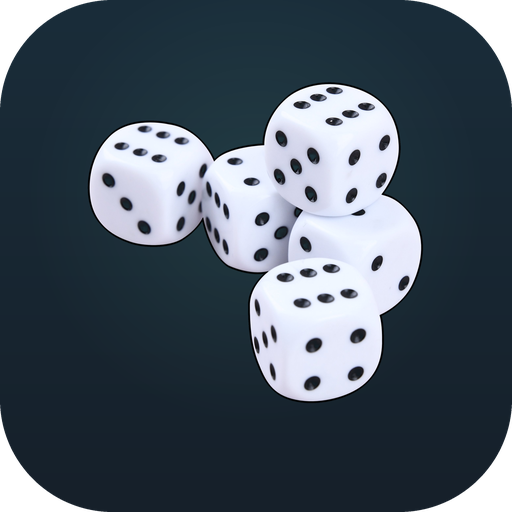
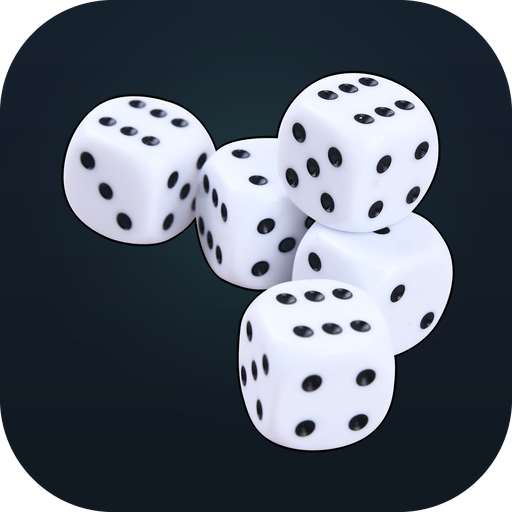
Add files via upload

Changed region(s): [[0.0938, 0.125, 0.9062, 0.9062], [0.7188, 0.5, 0.75, 0.5312]]

diff --git a/index.html b/index.html
@@ -4,7 +4,9 @@
 <meta charset="UTF-8">
 <meta name="viewport" content="width=device-width, initial-scale=1.0, maximum-scale=1.0, user-scalable=no">
 <meta name="theme-color" content="#f4f7f4">
-<link rel="manifest" href="./manifest.json">
+<link rel="preconnect" href="https://fonts.googleapis.com">
+<link rel="preconnect" href="https://fonts.gstatic.com" crossorigin>
+<link href="https://fonts.googleapis.com/css2?family=Playfair+Display:ital,wght@1,400;1,700&display=swap" rel="stylesheet">
 <link rel="icon" type="image/png" sizes="32x32" href="./icon-32.png">
 <link rel="apple-touch-icon" sizes="180x180" href="./icon-180.png">
 <meta name="apple-mobile-web-app-capable" content="yes">
@@ -1033,8 +1035,8 @@
     <div style="font-size: clamp(52px, 16vw, 80px); letter-spacing: 10px; line-height:1; color:#fff; font-weight:900;">
       YAM<span style="color:#5aa897;">B</span>
     </div>
-    <div style="font-family: Georgia, 'Times New Roman', serif; font-style: italic; font-size: clamp(12px, 3.4vw, 15px); color:#7a8f8a; margin-top: 10px; letter-spacing: 0.5px; font-weight: 400;">
-      crafted by <span style="color:#e8927c; font-weight:700; font-style:italic; font-family: Georgia, 'Times New Roman', serif;">Danijel.AI</span>
+    <div style="font-family:'Playfair Display',Georgia,serif; font-style:italic; font-size:clamp(13px,3.6vw,16px); color:#7a8f8a; margin-top:10px; letter-spacing:0.3px; font-weight:400;">
+      crafted by <span style="color:#e8927c; font-weight:700; font-style:italic;">Danijel.AI</span>
     </div>
   </div>
 
@@ -1047,6 +1049,10 @@
   @keyframes blink {
     0%, 100% { opacity: 0.4; }
     50% { opacity: 1; }
+  }
+  @keyframes slideUp {
+    from { transform: translateY(100%); }
+    to   { transform: translateY(0); }
   }
   #splash.fade-out {
     opacity: 0;
@@ -1247,6 +1253,28 @@
     <div class="scoreboard-final" id="finalBoard"></div>
     <button class="btn btn-roll" id="playAgainBtn" style="width:100%;">Nova igra</button>
   </div>
+</div>
+
+<div id="updateBanner" style="
+  display:none; position:fixed; bottom:0; left:0; right:0; z-index:8888;
+  background:var(--accent); color:#fff;
+  padding:14px 16px; text-align:center;
+  font-family:'JetBrains Mono',monospace; font-size:13px;
+  box-shadow:0 -4px 20px rgba(0,0,0,0.2);
+  animation: slideUp .3s ease;
+">
+  🆕 Nova verzija je dostupna!
+  <button onclick="location.reload()" style="
+    margin-left:12px; background:#fff; color:var(--accent);
+    border:none; border-radius:6px; padding:6px 14px;
+    font-weight:700; font-size:12px; cursor:pointer;
+    font-family:'JetBrains Mono',monospace;
+  ">Osvježi</button>
+  <button onclick="document.getElementById('updateBanner').style.display='none'" style="
+    margin-left:6px; background:transparent; color:rgba(255,255,255,0.7);
+    border:1px solid rgba(255,255,255,0.4); border-radius:6px; padding:6px 10px;
+    font-size:12px; cursor:pointer; font-family:'JetBrains Mono',monospace;
+  ">✕</button>
 </div>
 
 <div class="toast" id="toast"></div>
@@ -1674,25 +1702,32 @@ function renderColumnPicker() {
 // Render the install QR (encodes this page's URL).
 let qrRendered = false;
 function renderInstallQR() {
-  if (qrRendered) return;
   const box = document.getElementById('qrBox');
-  if (!box || typeof qrcode === 'undefined') return;
+  if (!box) return;
+  if (qrRendered) return;
+  if (typeof qrcode === 'undefined') { box.textContent = 'QR nije dostupan'; return; }
   try {
-    const url = window.location.href.split('#')[0];
-    const qr = qrcode(0, 'M');
-    qr.addData(url);
+    const url = 'https://danijelstzg.github.io/Yamb/';
+    const qr = qrcode(0, 'L');
+    qr.addData(url, 'Byte');
     qr.make();
-    box.innerHTML = qr.createSvgTag({ cellSize: 4, margin: 0, scalable: true });
-    const svg = box.querySelector('svg');
-    if (svg) { svg.style.width = '160px'; svg.style.height = '160px'; svg.style.display = 'block'; }
+    // Use object form so SVG has no fixed px dimensions — only viewBox (scalable)
+    const svg = qr.createSvgTag({ cellSize: 4, margin: 8, scalable: true });
+    box.innerHTML = svg;
+    const svgEl = box.querySelector('svg');
+    if (svgEl) {
+      svgEl.removeAttribute('width');
+      svgEl.removeAttribute('height');
+      svgEl.style.cssText = 'width:180px;height:180px;display:block;';
+    }
     qrRendered = true;
   } catch (e) {
-    const box = document.getElementById('qrBox');
-    if (box) box.textContent = 'QR nije dostupan';
+    box.textContent = 'QR greška: ' + e;
   }
 }
 
 document.getElementById('qrInstallBtn').onclick = () => {
+  renderInstallQR();
   document.getElementById('qrModal').classList.add('active');
 };
 document.getElementById('closeQrBtn').onclick = () => document.getElementById('qrModal').classList.remove('active');
@@ -1990,7 +2025,7 @@ function printBlankSheet() {
   const printRows = [
     { l:'1', s:'top' }, { l:'2', s:'top' }, { l:'3', s:'top' }, { l:'4', s:'top' },
     { l:'5', s:'top' }, { l:'6', s:'top' },
-    { l:'Σ gore', s:'sum', ro:true },
+    { l:'Međuzbroj', s:'sum', ro:true },
     { l:'Max', s:'mid', sep:true }, { l:'Min', s:'mid' },
     { l:'Razlika', d:'(Max − Min) × br. jedinica', s:'sum', ro:true },
     { l:'2 para', d:'+10', s:'bot', sep:true },
@@ -1998,7 +2033,7 @@ function printBlankSheet() {
     { l:'Full', d:'+30', s:'bot' },
     { l:'Poker', d:'+40', s:'bot' },
     { l:'Yamb', d:'+50', s:'bot' },
-    { l:'Σ dolje', s:'sum', ro:true },
+    { l:'Međuzbroj', s:'sum', ro:true },
     { l:'UKUPNO', s:'total', ro:true },
   ];
 
@@ -2014,11 +2049,14 @@ function printBlankSheet() {
       if (r.sep) cls.push('sep');
       const trcls = cls.length ? ` class="${cls.join(' ')}"` : '';
       const desc = r.d ? `<span class="d">${r.d}</span>` : '';
+      // Insert spacer row before UKUPNO
+      if (r.s === 'total') h += `<tr class="spacer"><td colspan="${nCols + 1}"></td></tr>`;
       h += `<tr${trcls}><td class="rl">${r.l}${desc}</td>`;
       colDefs.forEach(() => h += (r.ro ? '<td class="ro"></td>' : '<td></td>'));
       h += '</tr>';
     });
-    // Grand total across all columns
+    // Spacer then grand total
+    h += `<tr class="spacer"><td colspan="${nCols + 1}"></td></tr>`;
     h += `<tr class="grand"><td class="rl">SVEUKUPNO</td><td class="gtotal" colspan="${nCols}"></td></tr>`;
     h += '</tbody></table>';
     return h;
@@ -2034,7 +2072,8 @@ function printBlankSheet() {
     * { box-sizing: border-box; }
     body { font-family: Arial, Helvetica, sans-serif; margin: 0; color: #000; }
     h1 { text-align: center; font-size: 16px; margin: 0 0 4mm; letter-spacing: 2px; }
-    .sheets { display: flex; gap: 5mm; justify-content: center; align-items: flex-start; flex-wrap: wrap; }
+    .sheets { display: flex; gap: 0; justify-content: space-around; align-items: flex-start; width: 281mm; box-sizing: border-box; }
+    .sheet-wrap { flex: 0 0 33.33%; display: flex; justify-content: center; align-items: flex-start; }
     .ps { border-collapse: collapse; width: ${tableW}mm; table-layout: fixed; }
     .ps col.cl { width: ${labelW}mm; }
     .ps col.cv { width: ${valW}mm; }
@@ -2048,13 +2087,14 @@ function printBlankSheet() {
     .ps tr.grand .gtotal { background: #fff; }
     .ps td.ro { background: #ededed; }
     .ps tr.sep td { border-top: 2px solid #000; }
+    .ps tr.spacer td { height: 3mm; border: none; background: transparent; padding: 0; }
   `;
 
   const doc = `<!DOCTYPE html><html lang="hr"><head><meta charset="UTF-8">
     <meta name="viewport" content="width=device-width, initial-scale=1">
     <title>Yamb — prazan listić</title><style>${css}</style></head><body>
     <h1>YAMB</h1>
-    <div class="sheets">${buildTable()}${buildTable()}${buildTable()}</div>
+    <div class="sheets">${['','',''].map(()=>`<div class="sheet-wrap">${buildTable()}</div>`).join('')}</div>
     </body></html>`;
 
   // Print via a hidden same-document iframe. This avoids popup blockers and
@@ -2450,10 +2490,38 @@ document.getElementById('physCancelAnnounceBtn').onclick = () =>
 init();
 </script>
 <script>
-// PWA service worker registration
+// PWA service worker registration + update notification
 if ('serviceWorker' in navigator) {
   window.addEventListener('load', () => {
-    navigator.serviceWorker.register('./sw.js').catch(err => console.log('SW reg failed:', err));
+    navigator.serviceWorker.register('./sw.js').then(reg => {
+
+      // If there's already a waiting SW on first load, show banner immediately
+      if (reg.waiting) {
+        document.getElementById('updateBanner').style.display = 'block';
+      }
+
+      // When a new SW finishes installing and goes to "waiting"
+      reg.addEventListener('updatefound', () => {
+        const newWorker = reg.installing;
+        newWorker.addEventListener('statechange', () => {
+          if (newWorker.state === 'installed' && navigator.serviceWorker.controller) {
+            document.getElementById('updateBanner').style.display = 'block';
+          }
+        });
+      });
+
+      // Reload the page when the new SW takes control (after user clicks "Osvježi")
+      let refreshing = false;
+      navigator.serviceWorker.addEventListener('controllerchange', () => {
+        if (!refreshing) { refreshing = true; location.reload(); }
+      });
+
+      // "Osvježi" button tells the waiting SW to skip waiting
+      document.querySelector('#updateBanner button').addEventListener('click', () => {
+        if (reg.waiting) reg.waiting.postMessage({ type: 'SKIP_WAITING' });
+      });
+
+    }).catch(err => console.log('SW reg failed:', err));
   });
 }
 </script>

diff --git a/sw.js b/sw.js
@@ -1,5 +1,5 @@
 /* Yamb service worker — offline-first caching for GitHub Pages */
-const CACHE = 'yamb-v13';
+const CACHE = 'yamb-v18';
 
 /* Paths are relative so this works whether the app is served from the
    domain root or from a project subpath (e.g. user.github.io/yamb/). */
@@ -14,12 +14,18 @@ const ASSETS = [
   './icon-maskable-512.png'
 ];
 
+self.addEventListener('message', (event) => {
+  if (event.data && event.data.type === 'SKIP_WAITING') {
+    self.skipWaiting();
+  }
+});
+
 self.addEventListener('install', (event) => {
   event.waitUntil(
     caches.open(CACHE).then((cache) =>
-      // addAll fails the whole install if one URL 404s, so add tolerantly
       Promise.allSettled(ASSETS.map((url) => cache.add(url)))
-    ).then(() => self.skipWaiting())
+    )
+    // No skipWaiting here — we wait for user to click "Osvježi"
   );
 });
 